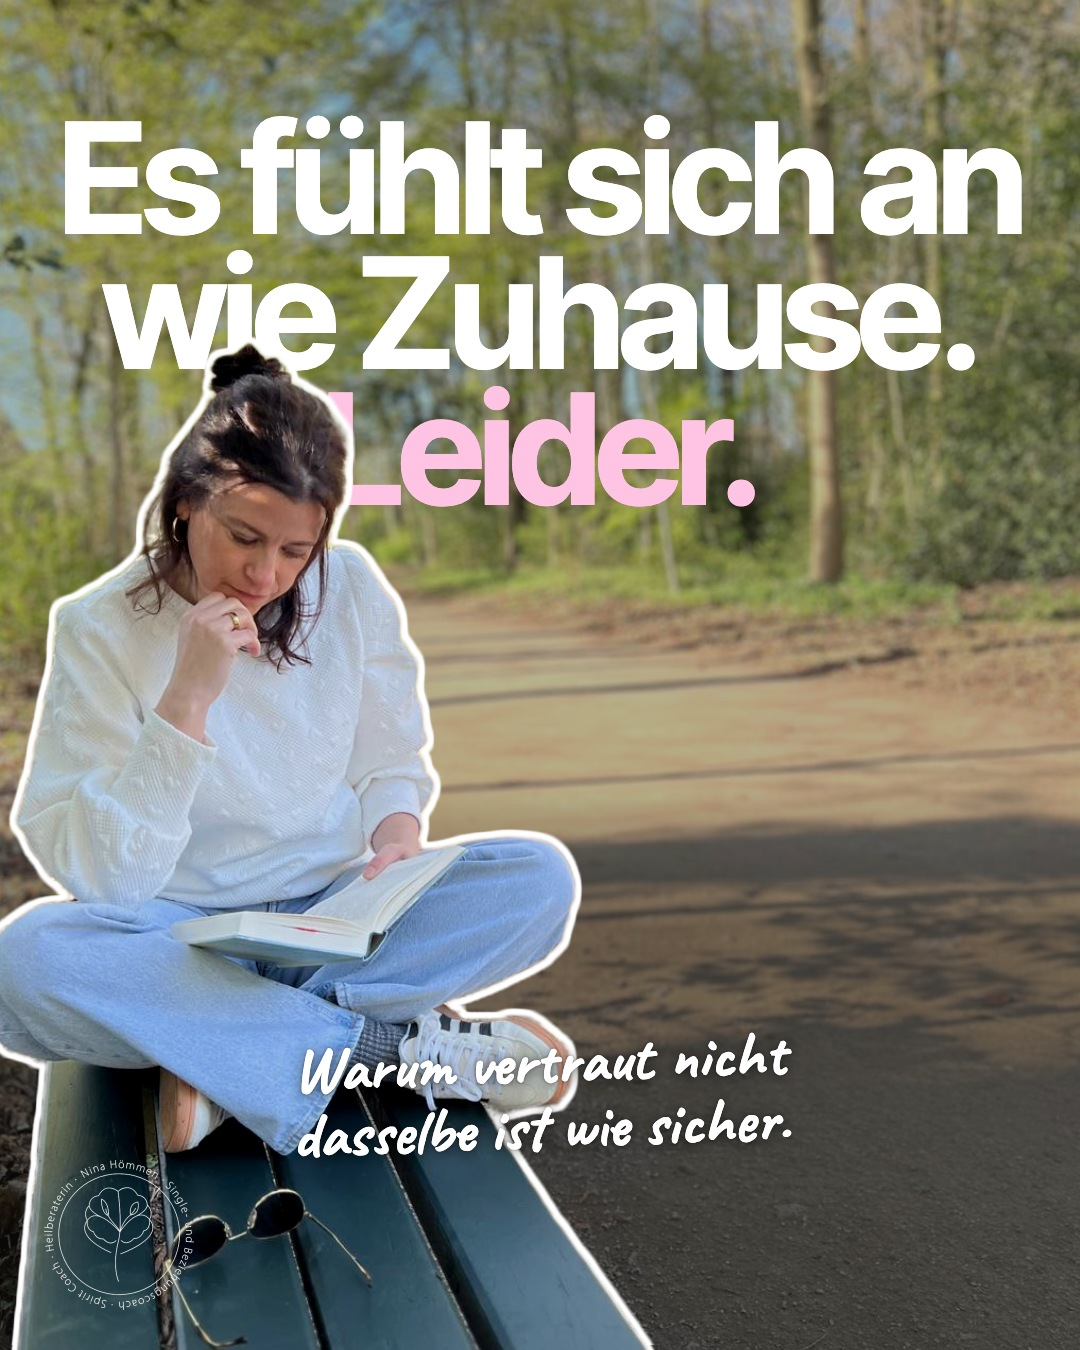
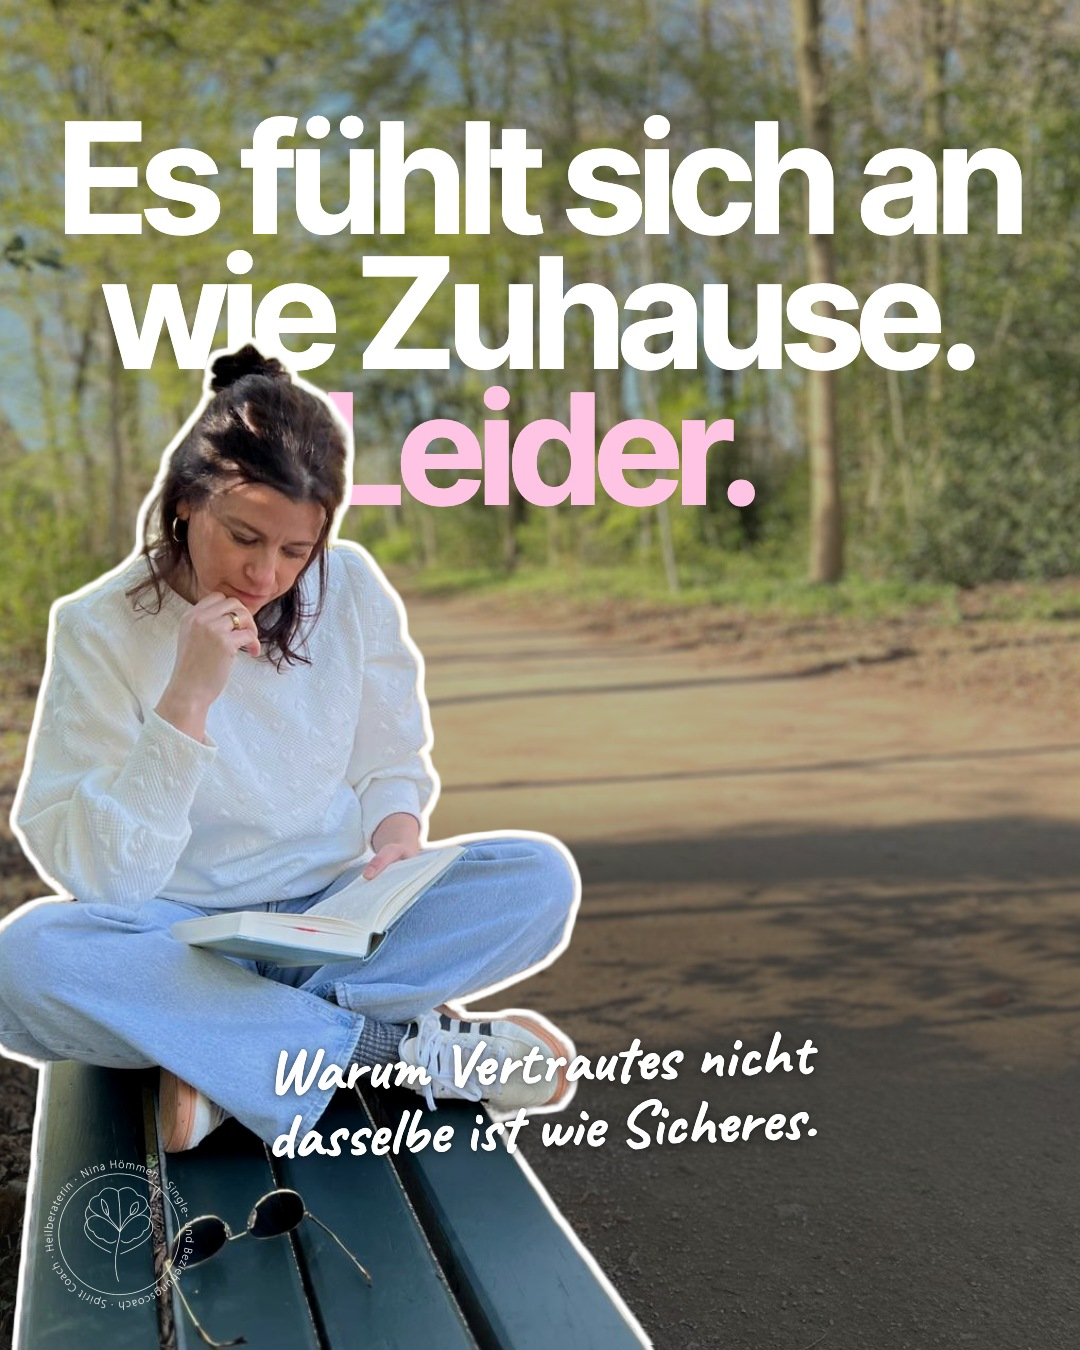
k07: Untertitel korrigiert, neu produziert

Changed region(s): [[0.2444, 0.7467, 0.7639, 0.8711]]

diff --git a/docs/content-posts.md b/docs/content-posts.md
@@ -246,7 +246,7 @@ Welche dieser Annahmen hast du selbst schon gedacht?
 
 | Seite | Vorlage | Text |
 |---|---|---|
-| 1 | Cover dunkel, Fineline: Handy mit dunklem Display auf einem Tisch | **Es fühlt sich an wie Zuhause. Leider.** / Warum vertraut nicht dasselbe ist wie sicher. |
+| 1 | Cover dunkel, Fineline: Handy mit dunklem Display auf einem Tisch | **Es fühlt sich an wie Zuhause. Leider.** / Warum Vertrautes nicht dasselbe ist wie Sicheres. |
 | 2 | Mini-Geschichte | Aus vielen Erfahrungen zusammengesetzt. / Stell dir vor: Du lernst jemanden kennen, und vom ersten Abend an ist da dieses Ziehen. Als würdest du die Person schon ewig kennen. Diesmal ist es anders, denkst du. |
 | 3 | Mini-Geschichte | Die Person meldet sich mal nach Stunden, mal nach Tagen. Sie plant etwas und sagt wieder ab. Du behältst dein Handy im Blick, genau wie früher. |
 | 4 | Mini-Geschichte | Irgendwann fällt dir auf: Das Ziehen ist am stärksten, wenn die Person unklar ist. Meldet sie sich verlässlich, lässt es nach. |
